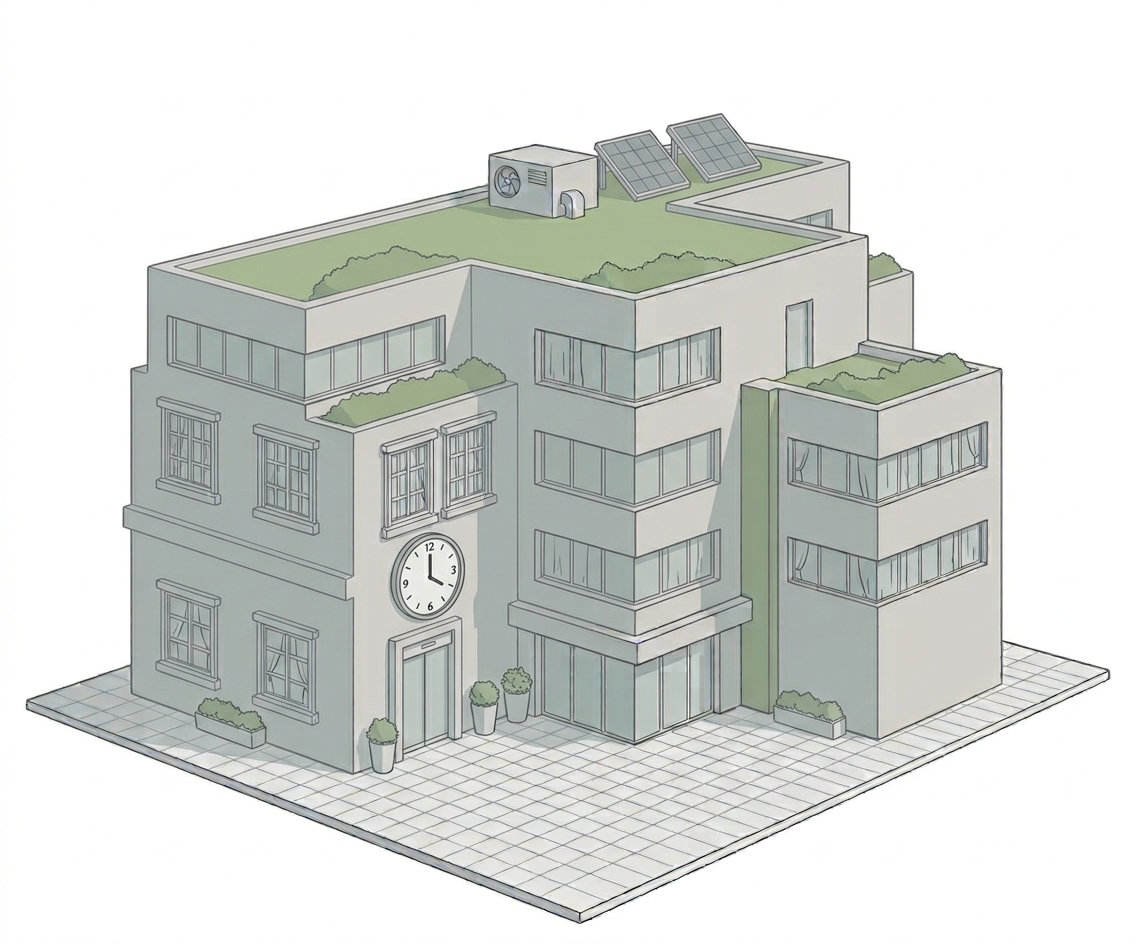
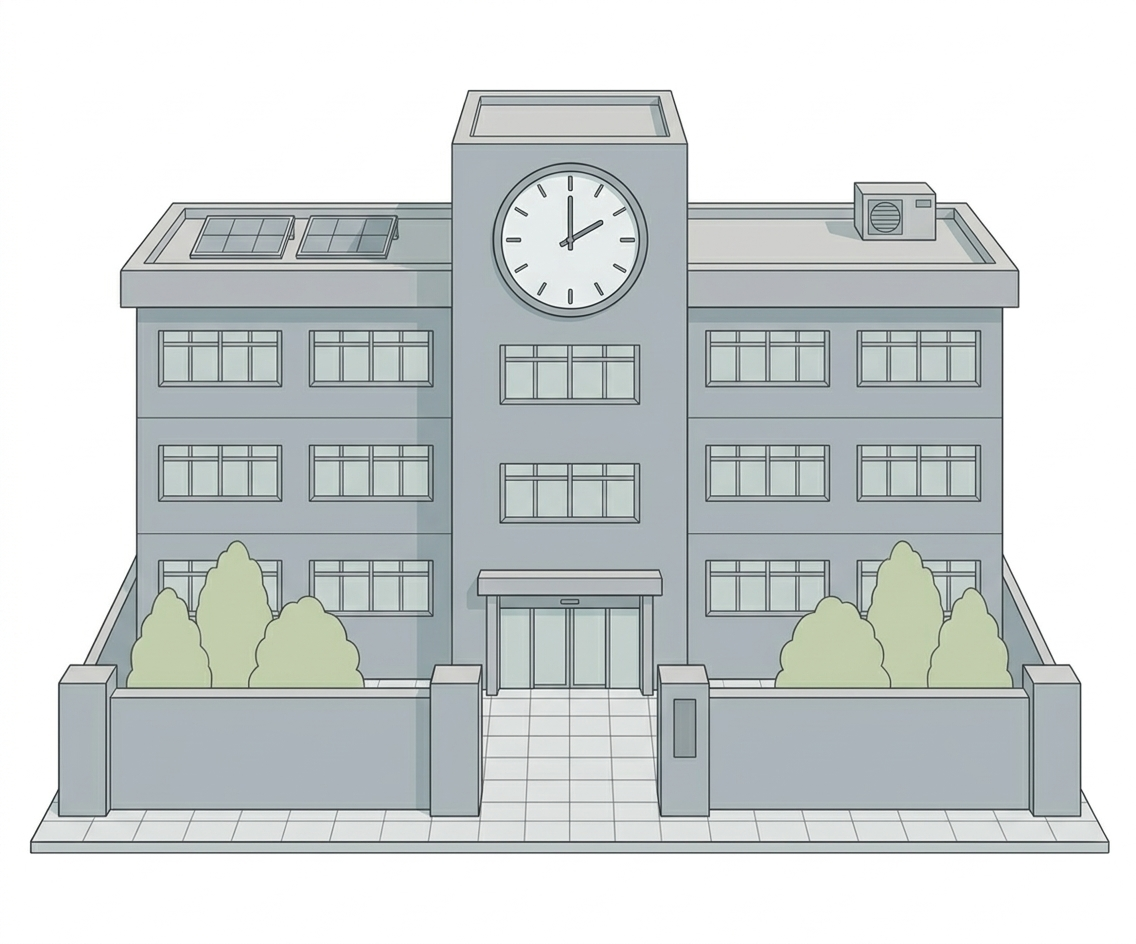
対応実績の学校・ホテル画像を新イラストに差し替え(v2)

diff --git a/index.html b/index.html
@@ -387,10 +387,10 @@
       <div class="work reveal"><div class="work__media"><img src="assets/img/work1.jpg?v=1" alt="オフィスビルのイラスト" loading="lazy"></div><p>オフィスビル</p></div>
       <div class="work reveal"><div class="work__media"><img src="assets/img/work2.jpg?v=1" alt="商業施設・店舗のイラスト" loading="lazy"></div><p>商業施設・店舗</p></div>
       <div class="work reveal"><div class="work__media"><img src="assets/img/work3.jpg?v=1" alt="マンションのイラスト" loading="lazy"></div><p>マンション</p></div>
-      <div class="work reveal"><div class="work__media"><img src="assets/img/work4.jpg?v=1" alt="学校・教育施設のイラスト" loading="lazy"></div><p>学校・教育施設</p></div>
+      <div class="work reveal"><div class="work__media"><img src="assets/img/work4.jpg?v=2" alt="学校・教育施設のイラスト" loading="lazy"></div><p>学校・教育施設</p></div>
       <div class="work reveal"><div class="work__media"><img src="assets/img/work5.jpg?v=1" alt="公共施設のイラスト" loading="lazy"></div><p>公共施設</p></div>
       <div class="work reveal"><div class="work__media"><img src="assets/img/work6.jpg?v=1" alt="中小ビルのイラスト" loading="lazy"></div><p>中小ビル</p></div>
-      <div class="work reveal"><div class="work__media"><img src="assets/img/work7.jpg?v=1" alt="宿泊・民泊施設のイラスト" loading="lazy"></div><p>宿泊・民泊施設</p></div>
+      <div class="work reveal"><div class="work__media"><img src="assets/img/work7.jpg?v=2" alt="宿泊・民泊施設のイラスト" loading="lazy"></div><p>宿泊・民泊施設</p></div>
       <div class="work reveal"><div class="work__media"><img src="assets/img/work8.jpg?v=1" alt="医療・福祉施設のイラスト" loading="lazy"></div><p>医療・福祉施設</p></div>
     </div>
   </div>
